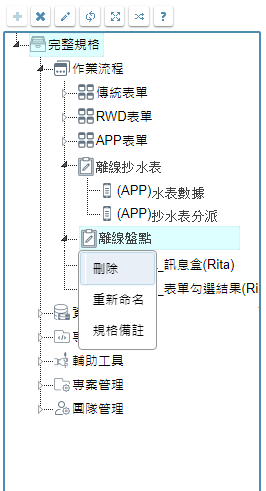
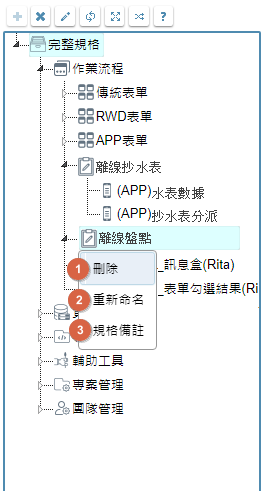
IDE_擴增MAE離線功能_首頁架構樹、新增任務

Changed region(s): [[0.2406, 0.5193, 0.3609, 0.7026]]

diff --git a/8.10.0/UPDATE/ITEM_1/IDE/Home/Structure.md b/8.10.0/UPDATE/ITEM_1/IDE/Home/Structure.md
@@ -4,12 +4,6 @@
 ### <div id="updatedate">規劃日期</div>
 * 2020/12/7
 
-
-## <div id="layout">版面相關</div>
-* 版面
-    * ![pic][image_Structure]
-
-
 ## <div id="object-desc">欄位說明</div>
 
 * <p id="fieldbreak1" style="color:blue;font-weight:bold">專案架構樹</p>
@@ -19,27 +13,54 @@
         * 用途說明
         * 規格說明
             * 駐留節點存在【作業流程、模組、流程】致能, 否則 除能. 單擊按鍵時, 依下列條件決定按鍵選單
-                * 模組: 駐留節點存在【作業流程、模組】顯示。同右鍵功能.新增模組
-                * 流程: 駐留節點存在【作業流程、模組】顯示。同右鍵功能.新增流程
-                * 表報: 駐留節點存在【作業流程、流程】顯示。同右鍵功能.新增表報
-                * 任務: 駐留節點存在【作業流程】顯示. 同右鍵功能.新增任務
+                * 任務: 駐留節點存在【作業流程】顯示. 同右鍵功能.`(5)新增任務`
     * `(2)工具列_刪除`
         * 用途說明
         * 規格說明
-            * 駐留節點存在【模組、流程、表單、報表、任務】致能，否則 除能。同右鍵功能.刪除
+            * 駐留節點存在【模組、流程、表單、報表、任務】致能, 否則 除能. 參考各節點右鍵功能.`刪除`
     * `(3)工具列_重新命名`
         * 用途說明
         * 規格說明
-            * 駐留節點存在【模組、流程、表單、報表、任務】致能，否則 除能。同右鍵功能.重新命名
+            * 駐留節點存在【模組、流程、表單、報表、任務】致能, 否則 除能. 參考各節點右鍵功能.`重新命名`
     * `(4)架構樹內容`
         * 用途說明
         * 規格說明
-            * 本版新增節點類別說明如下: (完整版本請參閱附件:[Home.xlsx 工作表:專案架構樹](attachment/Home.xlsx))
-            
+            * 本版新增節點類別說明, 請看紅框線部份【完整版本請參閱附件, 工作表:專案架構樹 (<a href="/8.10.0/UPDATE/ITEM_1/IDE/Home/attachment/Home.xlsx" download>下載</a>)】
+            * ![pic][image_StructureTree]
+    * `(5)新增任務`
+        * 用途說明
+        * 規格說明
+            * 駐留節點存在【作業流程】顯示, 否則 隱藏
+            * 執行開啟 [新增任務][link_addofflinetask], 關單後, 參考`(4)架構樹內容`節點位置, 回傳並顯示 **離線任務名稱**
 
 
+* <p id="fieldbreak1" style="color:blue;font-weight:bold">離線任務節點</p>
+
+    * ![pic][image_Structure_Offlinetask_ContextMenu]
+    * `(1)重新命名`
+        * 用途說明
+        * 規格說明
+            * 駐留節點類別存在【模組、流程、表單、報表】顯示, 否則 隱藏
+            * 執行時, 駐留節點變更為可修改的文字方塊，並依駐留的專案語系修改該節點類別對應的多語名稱
+    * `(2)刪除`
+        * 用途說明
+        * 規格說明
+            * 駐留節點類別存在【模組、流程、表單、報表、任務】顯示, 否則 隱藏, 每次執行顯示訊息盒【標題:系統訊息 / 訊息內容:請確認是否執行刪除 「(*單元類別名*) *節點名稱* 」? / 按鍵: 刪除、取消】
+                * 刪除: 依刪除類別刪除相對應的資料
+                    * 節點類別=任務，刪除該任務，若子階含有表單 且 表單未存在其它任務中，則將表單歸屬到作業流程的子階節點
+                * 取消: 關閉訊息視窗
+    * `(3)規格備註`
+        * 用途說明
+        * 規格說明
+            * 開啟 [規格備註][link_specificationsremarks]
 
 
 <!-- 圖片 -->
-[image_Structure]:attachment/Structure.png
+[image_StructureTree]:attachment/StructureTree.png
 [image_Structure_workflow]:attachment/Structure_WorkFlow.png
+[image_Structure_Offlinetask_ContextMenu]:attachment/Structure_OfflineTask_ContextMenu.png
+
+
+<!--超連結 -->
+[link_specificationsremarks]:/8.10.0/IDE/Specification/SpecificationsRemarks.md
+[link_addofflinetask]:AddOfflineTask.md

diff --git a/8.10.0/UPDATE/ITEM_1/IDE/README.md b/8.10.0/UPDATE/ITEM_1/IDE/README.md
@@ -41,6 +41,7 @@
             * 資料表格: 增加 DB08.離線資料交易 節點
         * 新增表單/報表: 當為APP表單，增加離線用設定
         * 新增任務: 新增本單
+        * 特色重點: 查詢所有有特色重點的單元
     * 版面設計
         * 表單設計版面: 當為APP表單，增加離線用設定
         * 表單版面生成表格: 產生的檢視表, 依表單判斷是否為離線用
@@ -89,8 +90,8 @@
         * 報表加註: 引用資料表、檢視表、表單, 增加離線資料上傳用、離線用判斷
         * 報表元件加註: 引用資料表、檢視表、表單, 增加離線資料上傳用、離線用判斷
     * 資料表格
-        * 資料表: 擴充顯示離線資料上傳用表格; 非離線資料上傳用表格, 外檔關聯、主動更新, 增加離線資料上傳用判斷
-        * 檢視表: 擴充功能:產生離線資料上傳用對應表格；擴充使用時機:離線用
+        * 資料表: 擴充顯示離線資料上傳用表格; 非離線資料上傳用表格, 外檔關聯、主動更新, 增加離線資料上傳用判斷; 開啟<規格備註>可撰寫特色重點
+        * 檢視表: 擴充功能:產生離線資料上傳用對應表格；擴充使用時機:離線用; 開啟<規格備註>可撰寫特色重點
         * 資料交易: 引用資料表、檢視表、表單, 增加離線資料上傳用、離線用判斷 ; 目的類型新增選項:離線任務同步完成
         * 離線資料交易: 本次新增表單 (本版暫不提供內容複製)
             * 新增離線資料交易: 本次新增表單

diff --git a/8.10.0/UPDATE/ITEM_1/IDE/Home/_sidebar.md b/8.10.0/UPDATE/ITEM_1/IDE/Home/_sidebar.md
@@ -1,4 +1,6 @@
 # MAE擴增離線功能\IDE\首頁
 * [上一頁](../README.md)
 * [首頁架構樹](Structure)
-* [新增表單/報表](AddFormReport)
+    * [新增任務](AddOfflineTask)
+    * [新增表單/報表](AddFormReport)
+* [特色重點](TemplateFeature)    

diff --git a/8.10.0/UPDATE/ITEM_1/IDE/ButtonAnnotation/BAOfflinePort/_sidebar.md b/8.10.0/UPDATE/ITEM_1/IDE/ButtonAnnotation/BAOfflinePort/_sidebar.md
@@ -7,4 +7,4 @@
 * [欄位說明](README.md#object-desc)
     * [基本](README.md#fieldbreak1)
     * [交易內容](README.md#fieldbreak2)
-* [儲存檢控](README.md#ave-action)
+* [儲存檢控](README.md#save-action)
